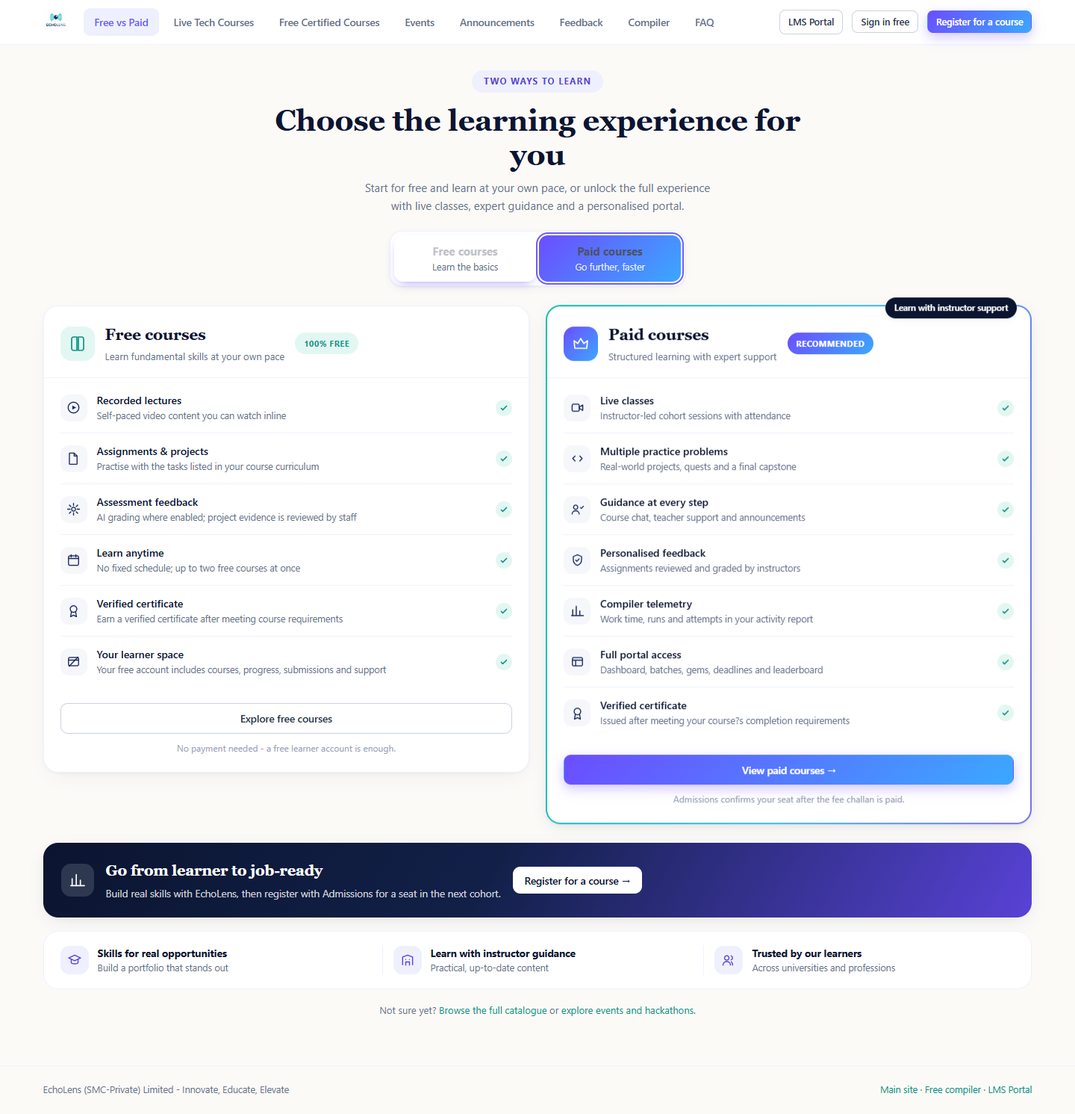
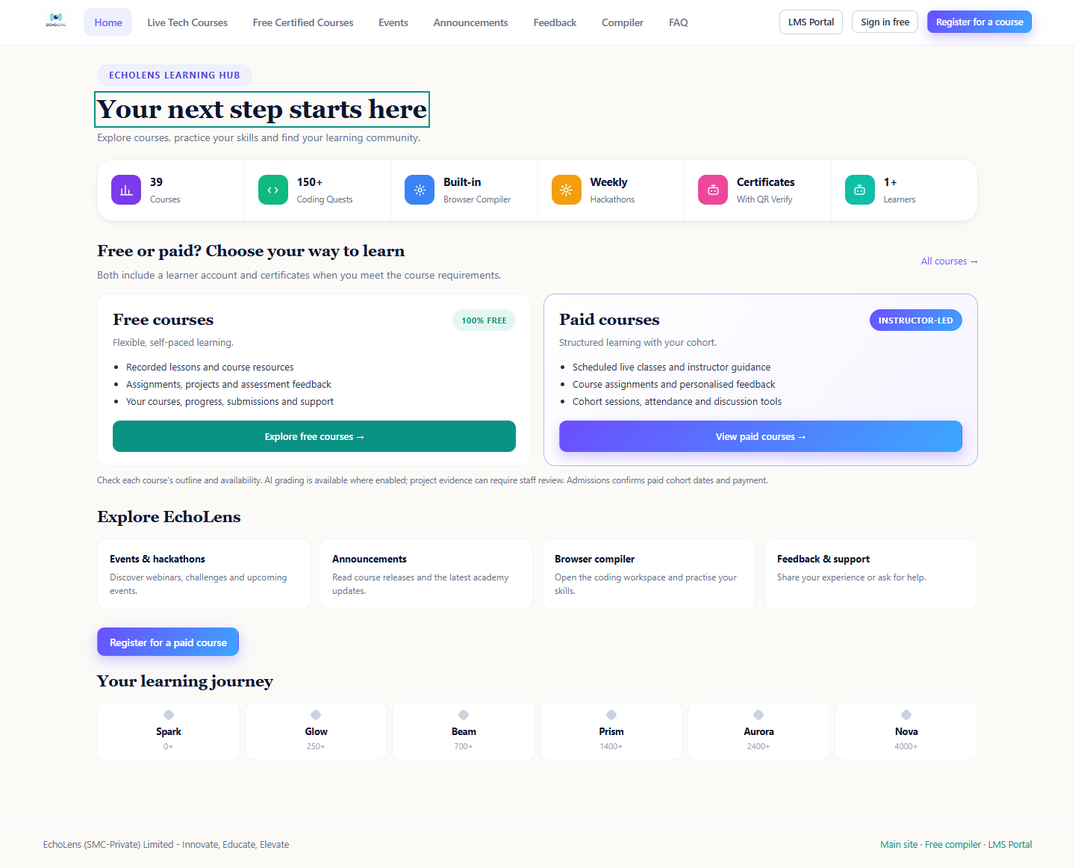
Add open-web Home with compact learning comparison

diff --git a/public/open.html b/public/open.html
@@ -42,7 +42,7 @@
 <link rel="preconnect" href="https://fonts.googleapis.com">
 <link rel="preconnect" href="https://fonts.gstatic.com" crossorigin>
 <link href="https://fonts.googleapis.com/css2?family=Fraunces:opsz,wght@9..144,400..650&family=Inter:wght@400;500;600;700&display=swap" rel="stylesheet">
-<link rel="stylesheet" href="/css/styles.css?v1442">
+<link rel="stylesheet" href="/css/styles.css?v1443">
 <style>body{background:#FBFAF7}</style>
 <link rel="stylesheet" href="/css/workflow.css?v1">
 </head>
@@ -50,7 +50,7 @@
 
 <nav class="open-nav">
   <a href="/"><img src="/img/logo.png" alt="EchoLens"></a>
-  <a class="nlink active" data-tab="compare" href="#compare" onclick="openTab('compare');return false">Free vs Paid</a>
+  <a class="nlink active" data-tab="home" href="#home">Home</a>
   <a class="nlink" data-tab="courses" data-catnav="live" onclick="navCourses('live')">Live Tech Courses</a>
   <a class="nlink" data-tab="courses" data-catnav="free" onclick="navCourses('free')">Free Certified Courses</a>
   <a class="nlink" data-tab="events" onclick="openTab('events')">Events</a>
@@ -65,106 +65,41 @@
 
 <div class="open-wrap" id="appWrap">
 
-  <!-- ========================= FREE vs PAID COMPARISON ========================= -->
-  <!-- Landing view of /open: before a visitor filters the catalogue they need to
-       know what the two course types actually differ on. Both cards deep-link
-       into the same catalogue tab (#free / #paid), so Back returns here. -->
-  <section id="tab-compare" style="display:none">
-    <div class="cmp-head">
-      <span class="cmp-eyebrow">Two ways to learn</span>
-      <h1>Choose the learning experience for you</h1>
-      <p>Start for free and learn at your own pace, or unlock the full experience with live classes, expert guidance and a personalised portal.</p>
-      <div class="cmp-toggle" role="tablist" aria-label="Course type">
-        <button type="button" role="tab" id="cmpTabFree" aria-controls="cmpCardFree" aria-selected="true" class="active" onclick="setCompareFocus('free')">
-          <b>Free courses</b><span>Learn the basics</span>
-        </button>
-        <button type="button" role="tab" id="cmpTabPaid" aria-controls="cmpCardPaid" aria-selected="false" onclick="setCompareFocus('paid')">
-          <b>Paid courses</b><span>Go further, faster</span>
-        </button>
+  <section id="tab-home" class="open-home" style="display:none">
+    <header class="open-home-hero">
+      <div><span class="cmp-eyebrow">EchoLens learning hub</span><h1>Your next step starts here</h1><p>Explore courses, practice your skills and find your learning community.</p></div>
+      <div id="homePreview"></div>
+    </header>
+    <div class="stat-strip" id="homeStats"></div>
+    <section class="home-learning" aria-labelledby="home-learning-title">
+      <div class="home-section-head"><div><h2 id="home-learning-title">Free or paid? Choose your way to learn</h2><p>Both include a learner account and certificates when you meet the course requirements.</p></div><a href="#courses">All courses &rarr;</a></div>
+      <div class="home-learning-grid">
+        <article class="home-learning-card"><div class="home-card-title"><h3>Free courses</h3><span class="cmp-badge free">100% free</span></div><p>Flexible, self-paced learning.</p><ul><li>Recorded lessons and course resources</li><li>Assignments, projects and assessment feedback</li><li>Your courses, progress, submissions and support</li></ul><a class="btn btn-teal btn-block" href="#free">Explore free courses &rarr;</a></article>
+        <article class="home-learning-card paid"><div class="home-card-title"><h3>Paid courses</h3><span class="cmp-badge paid">Instructor-led</span></div><p>Structured learning with your cohort.</p><ul><li>Scheduled live classes and instructor guidance</li><li>Course assignments and personalised feedback</li><li>Cohort sessions, attendance and discussion tools</li></ul><a class="btn btn-primary btn-block" href="#paid">View paid courses &rarr;</a></article>
       </div>
-    </div>
-
-    <div class="cmp-grid" id="cmpGrid">
-      <article class="cmp-card" id="cmpCardFree" role="tabpanel" aria-labelledby="cmpTabFree" tabindex="-1">
-        <header class="cmp-card-head">
-          <div class="cmp-ic free"><svg viewBox="0 0 24 24" fill="none"><path d="M4 5.5A2.5 2.5 0 0 1 6.5 3H11v18H6.5A2.5 2.5 0 0 1 4 18.5v-13zM20 5.5A2.5 2.5 0 0 0 17.5 3H13v18h4.5a2.5 2.5 0 0 0 2.5-2.5v-13z" stroke="currentColor" stroke-width="1.7" stroke-linejoin="round"/></svg></div>
-          <div class="grow">
-            <h2>Free courses</h2>
-            <p>Learn fundamental skills at your own pace</p>
-          </div>
-          <span class="cmp-badge free">100% free</span>
-        </header>
-        <ul class="cmp-list">
-          <li><span class="cmp-row-ic"><svg viewBox="0 0 24 24" fill="none"><circle cx="12" cy="12" r="9" stroke="currentColor" stroke-width="1.7"/><path d="M10 8.5 16 12l-6 3.5v-7z" fill="currentColor"/></svg></span><div><b>Recorded lectures</b><span>Self-paced video content you can watch inline</span></div><i class="cmp-yes" aria-label="Included"></i></li>
-          <li><span class="cmp-row-ic"><svg viewBox="0 0 24 24" fill="none"><path d="M6 3h7l5 5v13a1 1 0 0 1-1 1H6a1 1 0 0 1-1-1V4a1 1 0 0 1 1-1z" stroke="currentColor" stroke-width="1.7" stroke-linejoin="round"/><path d="M13 3v5h5" stroke="currentColor" stroke-width="1.7" stroke-linejoin="round"/></svg></span><div><b>Assignments & projects</b><span>Practise with the tasks listed in your course curriculum</span></div><i class="cmp-yes" aria-label="Included"></i></li>
-          <li><span class="cmp-row-ic"><svg viewBox="0 0 24 24" fill="none"><path d="M12 2v4M12 18v4M2 12h4M18 12h4M5 5l2.5 2.5M16.5 16.5 19 19M19 5l-2.5 2.5M7.5 16.5 5 19" stroke="currentColor" stroke-width="1.7" stroke-linecap="round"/><circle cx="12" cy="12" r="3.2" stroke="currentColor" stroke-width="1.7"/></svg></span><div><b>Assessment feedback</b><span>AI grading where enabled; project evidence is reviewed by staff</span></div><i class="cmp-yes" aria-label="Included"></i></li>
-          <li><span class="cmp-row-ic"><svg viewBox="0 0 24 24" fill="none"><rect x="3.5" y="5" width="17" height="16" rx="2.5" stroke="currentColor" stroke-width="1.7"/><path d="M3.5 9.5h17M8 3v4M16 3v4" stroke="currentColor" stroke-width="1.7" stroke-linecap="round"/></svg></span><div><b>Learn anytime</b><span>No fixed schedule; up to two free courses at once</span></div><i class="cmp-yes" aria-label="Included"></i></li>
-          <li><span class="cmp-row-ic"><svg viewBox="0 0 24 24" fill="none"><circle cx="12" cy="9" r="5.5" stroke="currentColor" stroke-width="1.7"/><path d="M8.5 13.5 7 22l5-2.5L17 22l-1.5-8.5" stroke="currentColor" stroke-width="1.7" stroke-linejoin="round"/></svg></span><div><b>Verified certificate</b><span>Earn a verified certificate after meeting course requirements</span></div><i class="cmp-yes" aria-label="Included"></i></li>
-          <li><span class="cmp-row-ic"><svg viewBox="0 0 24 24" fill="none"><rect x="3.5" y="5" width="17" height="14" rx="2.5" stroke="currentColor" stroke-width="1.7"/><path d="M3.5 9.5h17M4.5 20 19.5 4.5" stroke="currentColor" stroke-width="1.7" stroke-linecap="round"/></svg></span><div><b>Your learner space</b><span>Your free account includes courses, progress, submissions and support</span></div><i class="cmp-yes" aria-label="Included"></i></li>
-        </ul>
-        <div class="cmp-cta">
-          <a class="btn btn-ghost btn-block" href="#free" onclick="navCourses('free');return false">Explore free courses</a>
-          <p class="cmp-foot">No payment needed - a free learner account is enough.</p>
-        </div>
-      </article>
-
-      <article class="cmp-card paid" id="cmpCardPaid" role="tabpanel" aria-labelledby="cmpTabPaid" tabindex="-1">
-        <span class="cmp-flag">Learn with instructor support</span>
-        <header class="cmp-card-head">
-          <div class="cmp-ic paid"><svg viewBox="0 0 24 24" fill="none"><path d="M4 18h16l1-10-5 3.5L12 5l-4 6.5L3 8l1 10z" stroke="currentColor" stroke-width="1.7" stroke-linejoin="round"/></svg></div>
-          <div class="grow">
-            <h2>Paid courses</h2>
-            <p>Structured learning with expert support</p>
-          </div>
-          <span class="cmp-badge paid">Recommended</span>
-        </header>
-        <ul class="cmp-list">
-          <li><span class="cmp-row-ic"><svg viewBox="0 0 24 24" fill="none"><rect x="3" y="6" width="12" height="12" rx="2.5" stroke="currentColor" stroke-width="1.7"/><path d="m15 11 6-3.5v9L15 13v-2z" stroke="currentColor" stroke-width="1.7" stroke-linejoin="round"/></svg></span><div><b>Live classes</b><span>Instructor-led cohort sessions with attendance</span></div><i class="cmp-yes" aria-label="Included"></i></li>
-          <li><span class="cmp-row-ic"><svg viewBox="0 0 24 24" fill="none"><path d="m8 8-4 4 4 4M16 8l4 4-4 4" stroke="currentColor" stroke-width="1.7" stroke-linecap="round" stroke-linejoin="round"/></svg></span><div><b>Multiple practice problems</b><span>Real-world projects, quests and a final capstone</span></div><i class="cmp-yes" aria-label="Included"></i></li>
-          <li><span class="cmp-row-ic"><svg viewBox="0 0 24 24" fill="none"><circle cx="9" cy="8.5" r="3.5" stroke="currentColor" stroke-width="1.7"/><path d="M3 20c0-3.3 2.7-5.5 6-5.5s6 2.2 6 5.5" stroke="currentColor" stroke-width="1.7" stroke-linecap="round"/><path d="m17 9 1.6 1.6L22 7" stroke="currentColor" stroke-width="1.7" stroke-linecap="round" stroke-linejoin="round"/></svg></span><div><b>Guidance at every step</b><span>Course chat, teacher support and announcements</span></div><i class="cmp-yes" aria-label="Included"></i></li>
-          <li><span class="cmp-row-ic"><svg viewBox="0 0 24 24" fill="none"><path d="M12 3l7 3v5.5c0 4.4-2.9 8-7 9.5-4.1-1.5-7-5.1-7-9.5V6l7-3z" stroke="currentColor" stroke-width="1.7" stroke-linejoin="round"/><path d="m9 12 2 2 4-4" stroke="currentColor" stroke-width="1.7" stroke-linecap="round" stroke-linejoin="round"/></svg></span><div><b>Personalised feedback</b><span>Assignments reviewed and graded by instructors</span></div><i class="cmp-yes" aria-label="Included"></i></li>
-          <li><span class="cmp-row-ic"><svg viewBox="0 0 24 24" fill="none"><path d="M4 20V10M10 20V4M16 20v-8M22 20H2" stroke="currentColor" stroke-width="1.8" stroke-linecap="round" stroke-linejoin="round"/></svg></span><div><b>Compiler telemetry</b><span>Work time, runs and attempts in your activity report</span></div><i class="cmp-yes" aria-label="Included"></i></li>
-          <li><span class="cmp-row-ic"><svg viewBox="0 0 24 24" fill="none"><rect x="3.5" y="5" width="17" height="14" rx="2.5" stroke="currentColor" stroke-width="1.7"/><path d="M3.5 9.5h17M9 9.5V19" stroke="currentColor" stroke-width="1.7"/></svg></span><div><b>Full portal access</b><span>Dashboard, batches, gems, deadlines and leaderboard</span></div><i class="cmp-yes" aria-label="Included"></i></li>
-          <li><span class="cmp-row-ic"><svg viewBox="0 0 24 24" fill="none"><circle cx="12" cy="9" r="5.5" stroke="currentColor" stroke-width="1.7"/><path d="M8.5 13.5 7 22l5-2.5L17 22l-1.5-8.5" stroke="currentColor" stroke-width="1.7" stroke-linejoin="round"/></svg></span><div><b>Verified certificate</b><span>Issued after meeting your course?s completion requirements</span></div><i class="cmp-yes" aria-label="Included"></i></li>
-        </ul>
-        <div class="cmp-cta">
-          <a class="btn btn-primary btn-block" href="#paid" onclick="navCourses('paid');return false">View paid courses &rarr;</a>
-          <p class="cmp-foot">Admissions confirms your seat after the fee challan is paid.</p>
-        </div>
-      </article>
-    </div>
-
-    <div class="cmp-banner">
-      <div class="cmp-banner-ic"><svg viewBox="0 0 24 24" fill="none"><path d="M4 20V10M10 20V4M16 20v-8M22 20H2" stroke="currentColor" stroke-width="1.8" stroke-linecap="round" stroke-linejoin="round"/></svg></div>
-      <div class="grow">
-        <h3>Go from learner to job-ready</h3>
-        <p>Build real skills with EchoLens, then register with Admissions for a seat in the next cohort.</p>
-      </div>
-      <button class="btn btn-light" onclick="openRegister()">Register for a course &rarr;</button>
-    </div>
-
-    <div class="cmp-trust">
-      <div><span class="cmp-trust-ic"><svg viewBox="0 0 24 24" fill="none"><path d="M12 4 2.5 8.5 12 13l9.5-4.5L12 4z" stroke="currentColor" stroke-width="1.7" stroke-linejoin="round"/><path d="M6.5 11v4.5c0 1.4 2.5 2.5 5.5 2.5s5.5-1.1 5.5-2.5V11" stroke="currentColor" stroke-width="1.7" stroke-linecap="round"/></svg></span><div><b>Skills for real opportunities</b><span>Build a portfolio that stands out</span></div></div>
-      <div><span class="cmp-trust-ic"><svg viewBox="0 0 24 24" fill="none"><path d="M4 20V7l8-3 8 3v13" stroke="currentColor" stroke-width="1.7" stroke-linejoin="round"/><path d="M9 20v-5h6v5M9 11h.01M15 11h.01" stroke="currentColor" stroke-width="1.7" stroke-linecap="round"/></svg></span><div><b>Learn with instructor guidance</b><span>Practical, up-to-date content</span></div></div>
-      <div><span class="cmp-trust-ic"><svg viewBox="0 0 24 24" fill="none"><circle cx="9" cy="8.5" r="3.5" stroke="currentColor" stroke-width="1.7"/><path d="M3 20c0-3.3 2.7-5.5 6-5.5s6 2.2 6 5.5" stroke="currentColor" stroke-width="1.7" stroke-linecap="round"/><path d="M16 5.2a3.5 3.5 0 0 1 0 6.6M18.5 20c0-2.2-.8-4-2.2-5.2" stroke="currentColor" stroke-width="1.7" stroke-linecap="round"/></svg></span><div><b id="cmpTrustCount">Trusted by our learners</b><span>Across universities and professions</span></div></div>
-    </div>
-
-    <p class="cmp-skip">Not sure yet? <a href="#courses" onclick="navCourses('live');return false">Browse the full catalogue</a> or <a href="#events" onclick="openTab('events');return false">explore events and hackathons</a>.</p>
+      <p class="home-learning-note">Check each course's outline and availability. AI grading is available where enabled; project evidence can require staff review. Admissions confirms paid cohort dates and payment.</p>
+    </section>
+    <section aria-labelledby="home-explore-title"><h2 id="home-explore-title">Explore EchoLens</h2><div class="home-explore-grid">
+      <a href="#events"><b>Events &amp; hackathons</b><span>Discover webinars, challenges and upcoming events.</span></a>
+      <a href="#announcements"><b>Announcements</b><span>Read course releases and the latest academy updates.</span></a>
+      <a href="/compiler"><b>Browser compiler</b><span>Open the coding workspace and practise your skills.</span></a>
+      <a href="#feedback"><b>Feedback &amp; support</b><span>Share your experience or ask for help.</span></a>
+    </div></section>
+    <div id="feedbackTeaser" style="display:none;margin:18px 0"></div>
+    <div id="actionStrip" style="display:flex;gap:10px;flex-wrap:wrap;margin:18px 0"></div>
+    <section aria-labelledby="home-journey-title"><h2 id="home-journey-title">Your learning journey</h2><div class="journey" id="homeJourney"></div></section>
   </section>
 
   <!-- ================== COURSES (the portal's main page) ================== -->
   <section id="tab-courses" style="display:none">
-    <a class="nlink" href="#compare">&larr; Compare free and paid courses</a>
+    <a class="nlink" href="#home">&larr; Home</a>
     <div style="display:flex;gap:14px;align-items:end;flex-wrap:wrap;margin-bottom:6px">
       <div>
         <h1 style="font-family:var(--font-display);font-size:28px;color:var(--ink)">Course catalogue</h1>
         <p class="s" style="color:var(--muted)" id="cohortLine">Free self-paced learning and instructor-led paid courses. Admissions confirms paid cohort dates.</p>
       </div>
-      <div id="homePreview" style="margin-left:auto"></div>
+
     </div>
-    <div class="stat-strip" id="homeStats" style="margin:12px 0 6px"></div>
-    <div id="feedbackTeaser" style="display:none;margin:0 0 14px"></div>
-    <div id="actionStrip" style="display:flex;gap:10px;flex-wrap:wrap;margin:10px 0 16px"></div>
     <div class="lc-filterbar">
       <select id="cTier" onchange="syncCourseFilters();drawCourses()"><option value="">All tiers</option><option>Bootcamp</option><option>Short Course</option><option>Specialist Track</option></select>
       <select id="cFree" onchange="syncCourseFilters();drawCourses()"><option value="">All types</option><option value="free">Free only</option><option value="paid">Paid only</option></select>
@@ -176,8 +111,6 @@
     <div class="filt-row" id="cPills"></div>
     <div id="pathBox"></div>
     <div id="courseTable"><div class="empty">Loading catalogue&hellip;</div></div>
-    <h3 style="font-family:var(--font-display);font-size:20px;color:var(--ink);margin:26px 0 12px">Your learning journey</h3>
-    <div class="journey" id="homeJourney"></div>
   </section>
 
   <!-- ============================ COURSE DETAIL ============================ -->
@@ -301,6 +234,6 @@
 <script src="/js/draft-store.js?v1"></script>
 <script src="/js/workflow-ui.js?v2"></script>
 <script src="/js/coderunner.js?v1421"></script>
-<script src="/js/open.js?v1439"></script>
+<script src="/js/open.js?v1440"></script>
 </body>
 </html>

diff --git a/public/js/open.js b/public/js/open.js
@@ -128,8 +128,6 @@ let COURSE_NAV_MODE = 'live';
 function navCourses(mode, skipPush) {
   if (!skipPush) pushNav({ v: 'courses', mode });
   COURSE_NAV_MODE = mode;
-  // Coming back to #compare should land on the card the learner just left.
-  if (mode === 'free' || mode === 'paid') COMPARE_FOCUS = mode;
   $('cSearch').value = ''; $('cTier').value = '';
   $('cFree').value = mode === 'free' ? 'free' : mode === 'paid' ? 'paid' : '';
   FREE_SELECTED_FAMILY = null;
@@ -164,13 +162,13 @@ function openState(hash = location.hash) {
   if (parts[0] === 'course' && parts[1]) {
     let key; try { key = decodeURIComponent(parts[1]); } catch { return null; }
     state = {v: parts[4] === 'practice' ? 'solve' : parts[2] === 'lesson' ? 'video' : 'course', key, level:Number(parts[3]), pid:Number(parts[5])};
-  } else if (['courses','free','paid','home','quests'].includes(parts[0])) {
+  } else if (['courses','free','paid','quests'].includes(parts[0])) {
     state = {v:'courses', mode:['free','paid'].includes(parts[0]) ? parts[0] : 'live'};
     if (['search','tier','free','family'].some(k => params.has(k))) state.filters = {search:params.get('search') || '',tier:params.get('tier') || '',free:params.has('free') ? params.get('free') : (state.mode === 'live' ? '' : state.mode),family:params.get('family') || null};
-  } else if (['compare','events','profile','announcements','feedback'].includes(parts[0])) state = {v:parts[0]};
+  } else if (['home','compare','events','profile','announcements','feedback'].includes(parts[0])) state = {v:parts[0] === 'compare' ? 'home' : parts[0]};
   else if (parts[0] === 'register' || parts[0].startsWith('register-')) state = {v:'courses',mode:'paid',dialog:'register',code:parts[0].slice(9)};
   else if (parts[0] === 'signup') state = {v:'courses',mode:'free',dialog:'signup'};
-  else if (!route) state = {v:'compare'};
+  else if (!route) state = {v:'home'};
   if (state && ['register','signup'].includes(params.get('dialog'))) { state.dialog = params.get('dialog'); state.code = params.get('code') || ''; }
   return state || null;
 }
@@ -205,7 +203,7 @@ async function restoreNav(state, revision = NAV_REVISION) {
   if (!state?.v) return;
   if (!window.MODAL_LOCK) closeModal(true);
   if (state.v === 'ticket') { openTab('feedback'); await openSupportTicket(state.ticket, state.token); return; }
-  if (['compare','events','announcements','feedback'].includes(state.v)) openTab(state.v);
+  if (['home','events','announcements','feedback'].includes(state.v)) openTab(state.v);
   else if (state.v === 'profile') openProfileTab();
   else if (state.v === 'courses') {
     navCourses(state.mode || 'live', true);
@@ -272,7 +270,7 @@ function backToCatalogue() {
   loadEvents();
   if (ME) loadCerts();
   await catReady;
-  const initialState = history.state?.v && openRoute(history.state) === (location.hash || '#compare') ? history.state : (openState() || {v:'compare'});
+  const initialState = history.state?.v && openRoute(history.state) === (location.hash || '#home') ? history.state : (openState() || {v:'home'});
   history.replaceState(initialState, '', openRoute(initialState));
   OPEN_READY = true;
   await restoreOpenHistory(initialState);
@@ -416,14 +414,15 @@ function requireLearnerProfile() {
 
 /* -------------------------------- tabs -------------------------------- */
 function openTab(tab) {
+  if (tab === 'compare') tab = 'home';
   EL.drafts.flushAll();
-  if (['compare','courses','events','profile','announcements','feedback'].includes(tab)) OPEN_COURSE_REQUEST++;
-  if (['compare','events','profile','announcements','feedback'].includes(tab)) pushNav({v:tab});
-  ['compare', 'courses', 'course', 'solve', 'events', 'eventDetail', 'announcements', 'profile', 'feedback'].forEach((t) => {
+  if (['home','courses','events','profile','announcements','feedback'].includes(tab)) OPEN_COURSE_REQUEST++;
+  if (['home','events','profile','announcements','feedback'].includes(tab)) pushNav({v:tab});
+  ['home', 'courses', 'course', 'solve', 'events', 'eventDetail', 'announcements', 'profile', 'feedback'].forEach((t) => {
     const el = $('tab-' + t); if (el) el.style.display = t === tab ? '' : 'none';
   });
   if (tab === 'feedback') loadFeedback();
-  if (tab === 'compare') setCompareFocus(COMPARE_FOCUS, true);
+
   // 'courses'/'course'/'solve' all map to the same two nav links (Live Tech
   // Courses vs Free Certified Courses) - which of those two is "active"
   // depends on COURSE_NAV_MODE, not on the tab name, since both links open
@@ -446,42 +445,6 @@ function backToCourse() {
 }
 
 /* ---------------------------- free vs paid ---------------------------- */
-// The comparison landing (#compare). The toggle only decides which card is
-// emphasised (and, on phones, which one is shown) - it never navigates, so
-// Back from the catalogue always returns to this view, not to a half state.
-let COMPARE_FOCUS = 'free';
-function setCompareFocus(kind, silent) {
-  const grid = $('cmpGrid'); if (!grid) return;
-  COMPARE_FOCUS = kind === 'paid' ? 'paid' : 'free';
-  grid.classList.toggle('focus-free', COMPARE_FOCUS === 'free');
-  grid.classList.toggle('focus-paid', COMPARE_FOCUS === 'paid');
-  [['cmpTabFree', 'free'], ['cmpTabPaid', 'paid']].forEach(([id, k]) => {
-    const btn = $(id); if (!btn) return;
-    btn.classList.toggle('active', k === COMPARE_FOCUS);
-    btn.setAttribute('aria-selected', String(k === COMPARE_FOCUS));
-    btn.tabIndex = k === COMPARE_FOCUS ? 0 : -1;
-  });
-  // Only scroll on a real click, and only when the cards stack (phones),
-  // where switching otherwise looks like nothing happened.
-  if (!silent && window.matchMedia('(max-width: 900px)').matches) {
-    $(COMPARE_FOCUS === 'paid' ? 'cmpCardPaid' : 'cmpCardFree')?.scrollIntoView({ behavior: 'smooth', block: 'start' });
-  }
-}
-window.setCompareFocus = setCompareFocus;
-document.querySelector('.cmp-toggle')?.addEventListener('keydown', e => {
-  if (!['ArrowLeft','ArrowRight','Home','End'].includes(e.key)) return;
-  e.preventDefault();
-  const kind = e.key === 'Home' ? 'free' : e.key === 'End' ? 'paid' : COMPARE_FOCUS === 'free' ? 'paid' : 'free';
-  setCompareFocus(kind, true);
-  $(kind === 'free' ? 'cmpTabFree' : 'cmpTabPaid').focus();
-});
-// Real catalogue numbers, so the landing page never over-promises.
-function renderCompareCounts(counts) {
-  const el = $('cmpTrustCount'); if (!el) return;
-  const students = Number(counts?.open_web_enrollments || 0);
-  if (students > 0) el.textContent = 'Trusted by ' + students.toLocaleString() + '+ learners';
-}
-
 /* -------------------------------- home -------------------------------- */
 async function loadHomeStats() {
   renderHomePreview();
@@ -777,7 +740,7 @@ async function loadCatalogue() {
     const available = CATALOGUE.filter((course) => course.available !== false);
     const comingSoon = CATALOGUE.filter((course) => course.coming_soon);
     const totalOpenEnrollments = Number(d.counts?.open_web_enrollments || 0);
-    renderCompareCounts(d.counts);
+
     $('cohortLine').textContent = available.length + ' available courses | ' + available.filter(c=>c.price_pkr===0).length + ' free self-paced courses | ' + totalOpenEnrollments.toLocaleString() + ' students enrolled in open-web courses.' + (comingSoon.length ? ' ' + comingSoon.length + ' new certified courses are open for syllabus preview and coming soon.' : '') + ' Paid cohorts are arranged by Admissions.';
     $('actionStrip').innerHTML = `
       <button class="btn btn-primary" onclick="openRegister()">Register for a paid course</button>`;

diff --git a/public/css/styles.css b/public/css/styles.css
@@ -1871,6 +1871,33 @@ input[type=file]::file-selector-button:hover{background:var(--canvas)}
    (dims the other on desktop, shows one at a time on mobile); it
    does not navigate, so Back/Forward stay tied to real tabs.
    ============================================================ */
+.open-home{max-width:1180px;margin:0 auto}
+.open-home-hero{display:flex;align-items:center;justify-content:space-between;gap:20px;margin-bottom:18px}
+.open-home-hero h1{font-size:clamp(26px,3vw,34px);margin:10px 0 6px;line-height:1.2}
+.open-home-hero h1:focus{outline:none}
+.open-home-hero p,.home-section-head p{color:var(--muted);font-size:14px}
+.open-home h2{font-size:21px;margin:0 0 12px}
+.open-home .stat-strip{margin:0 0 24px}
+.home-learning{margin:24px 0}
+.home-section-head{display:flex;justify-content:space-between;gap:18px;align-items:center;margin-bottom:14px}
+.home-section-head h2{margin:0 0 5px}
+.home-section-head>a{white-space:nowrap;color:var(--primary);font-size:13px}
+.home-learning-grid{display:grid;grid-template-columns:1fr 1fr;gap:16px}
+.home-learning-card{padding:18px 20px;background:var(--card);border:1px solid var(--line);border-radius:16px}
+.home-learning-card.paid{border-color:#bcb4f2;background:linear-gradient(130deg,#fff,#f6f4ff)}
+.home-card-title{display:flex;align-items:center;justify-content:space-between;gap:10px}
+.home-card-title h3{font-size:21px;margin:0}
+.home-learning-card>p{font-size:13px;color:var(--muted);margin:4px 0 10px}
+.home-learning-card ul{padding-left:18px;margin:0 0 14px;font-size:13px;line-height:1.8}
+.home-learning-card .btn{min-height:42px;font-size:13px}
+.home-learning-note{font-size:11.5px;color:var(--muted);margin:10px 0 0;line-height:1.6}
+.home-explore-grid{display:grid;grid-template-columns:repeat(4,1fr);gap:12px;margin-bottom:24px}
+.home-explore-grid a{display:block;padding:16px;background:var(--card);border:1px solid var(--line);border-radius:12px;text-decoration:none;color:var(--ink)}
+.home-explore-grid b{display:block;font-size:13px;margin-bottom:5px}
+.home-explore-grid span{display:block;font-size:12px;color:var(--muted);line-height:1.5}
+.home-explore-grid a:hover{border-color:var(--primary)}
+.open-home a:focus-visible{outline:2px solid var(--primary);outline-offset:3px}
+@media(max-width:700px){.open-home-hero{display:block}.home-learning-grid{grid-template-columns:1fr}.home-explore-grid{grid-template-columns:1fr 1fr}.home-section-head{align-items:start}.home-learning-card{padding:16px}.home-card-title h3{font-size:20px}}
 .cmp-head { text-align: center; max-width: 720px; margin: 8px auto 26px; }
 .cmp-eyebrow { display: inline-block; background: var(--violet-soft); color: var(--primary-deep);
   font-size: 11.5px; font-weight: 700; letter-spacing: .12em; text-transform: uppercase;

diff --git a/PRODUCT_FEATURES.md b/PRODUCT_FEATURES.md
@@ -18,7 +18,7 @@ EchoLens is a gamified learning-management and operations platform. It combines 
 
 Visitors can use the open website without an account to:
 
-- Land on a free-versus-paid comparison view (`/open#compare`, the default view), with self-paced lessons, assignments, assessment feedback and completion-based certificates for free learning, and live classes, instructor guidance and cohort tools for paid courses. Both options include a learner account. AI grading depends on course configuration; evidence can require staff review. The responsive toggle supports keyboard navigation; links open the matching catalogue, and Back/Forward preserve filters, course context and registration drafts.
+- Open the Home page (`/open#home`, the default view) for course and learning overviews, a compact free-versus-paid comparison, and links to events, announcements, the compiler, feedback and support. Both course types include a learner account; paid enrollment adds instructor-led cohort tools. Browse matching catalogues and use Back/Forward with preserved course filters and registration drafts. Older `/open#compare` links open Home.
 - Browse the public course catalogue, free certified courses, paid courses, specialist tracks, course outlines, modules, lectures, prerequisites, environments, outcomes, capstones, pricing, duration, and availability.
 - See total open-web enrollment counts and enrollment counts on free-course cards.
 - Read public announcements, events, webinars, hackathons, resources, and feedback highlights.

diff --git a/qa-implementation/open-comparison-completion.md b/qa-implementation/open-comparison-completion.md
@@ -1,5 +1,11 @@
 # Open-web comparison and course navigation completion
 
+## Home layout revision
+
+Home is now the default `/open#home` page and replaces the Free vs Paid navigation entry. It combines the course overview, learner progress where available, compact comparison cards, public-feature shortcuts, feedback highlights and learning journey. Comparison cards contain three concise points each, measure below 310px high in the browser checks, and stack on phones. Removed the comparison toggle; both options are immediately available. Old `/open#compare` links resolve to Home. Catalogue filters and registration history remain supported.
+
+The updated browser script passed at 1440px and 390px, checking compact card dimensions, viewport overflow, Home return links, both course journeys, free language refresh, registration drafts and Back/Forward. Updated screenshots show the Home layout.
+
 The existing free/paid comparison design remains the default `/open#compare` view. The catalogue now provides a return link. The mobile comparison toggle supports Arrow Left/Right and Home/End, with the selected control in the tab order.
 
 Fixed catalogue hydration overwriting saved history filters during refresh. A selected free language now survives refresh and course-return navigation. Registration forms retain their draft through Back/Forward and refresh; Escape returns to the underlying course.
